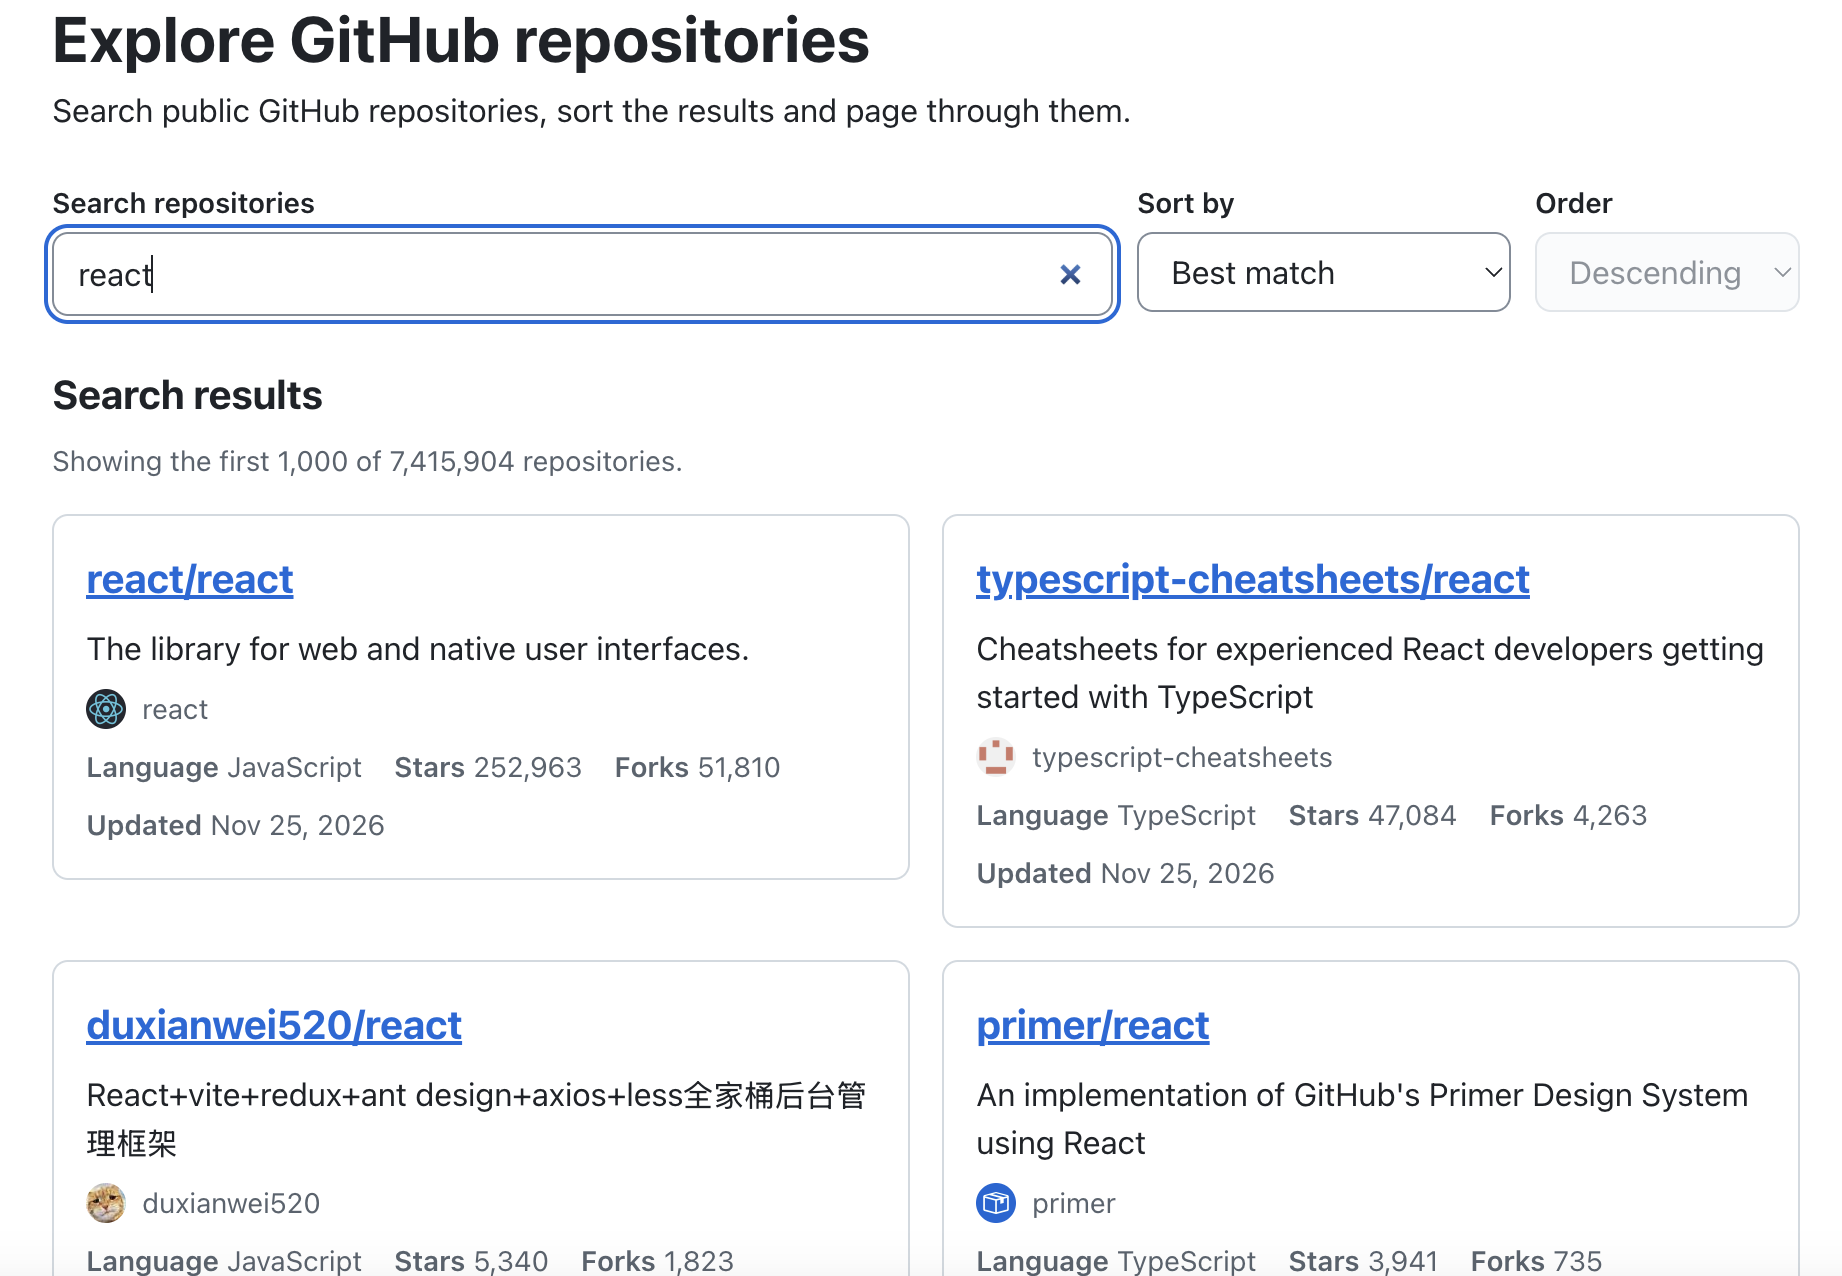
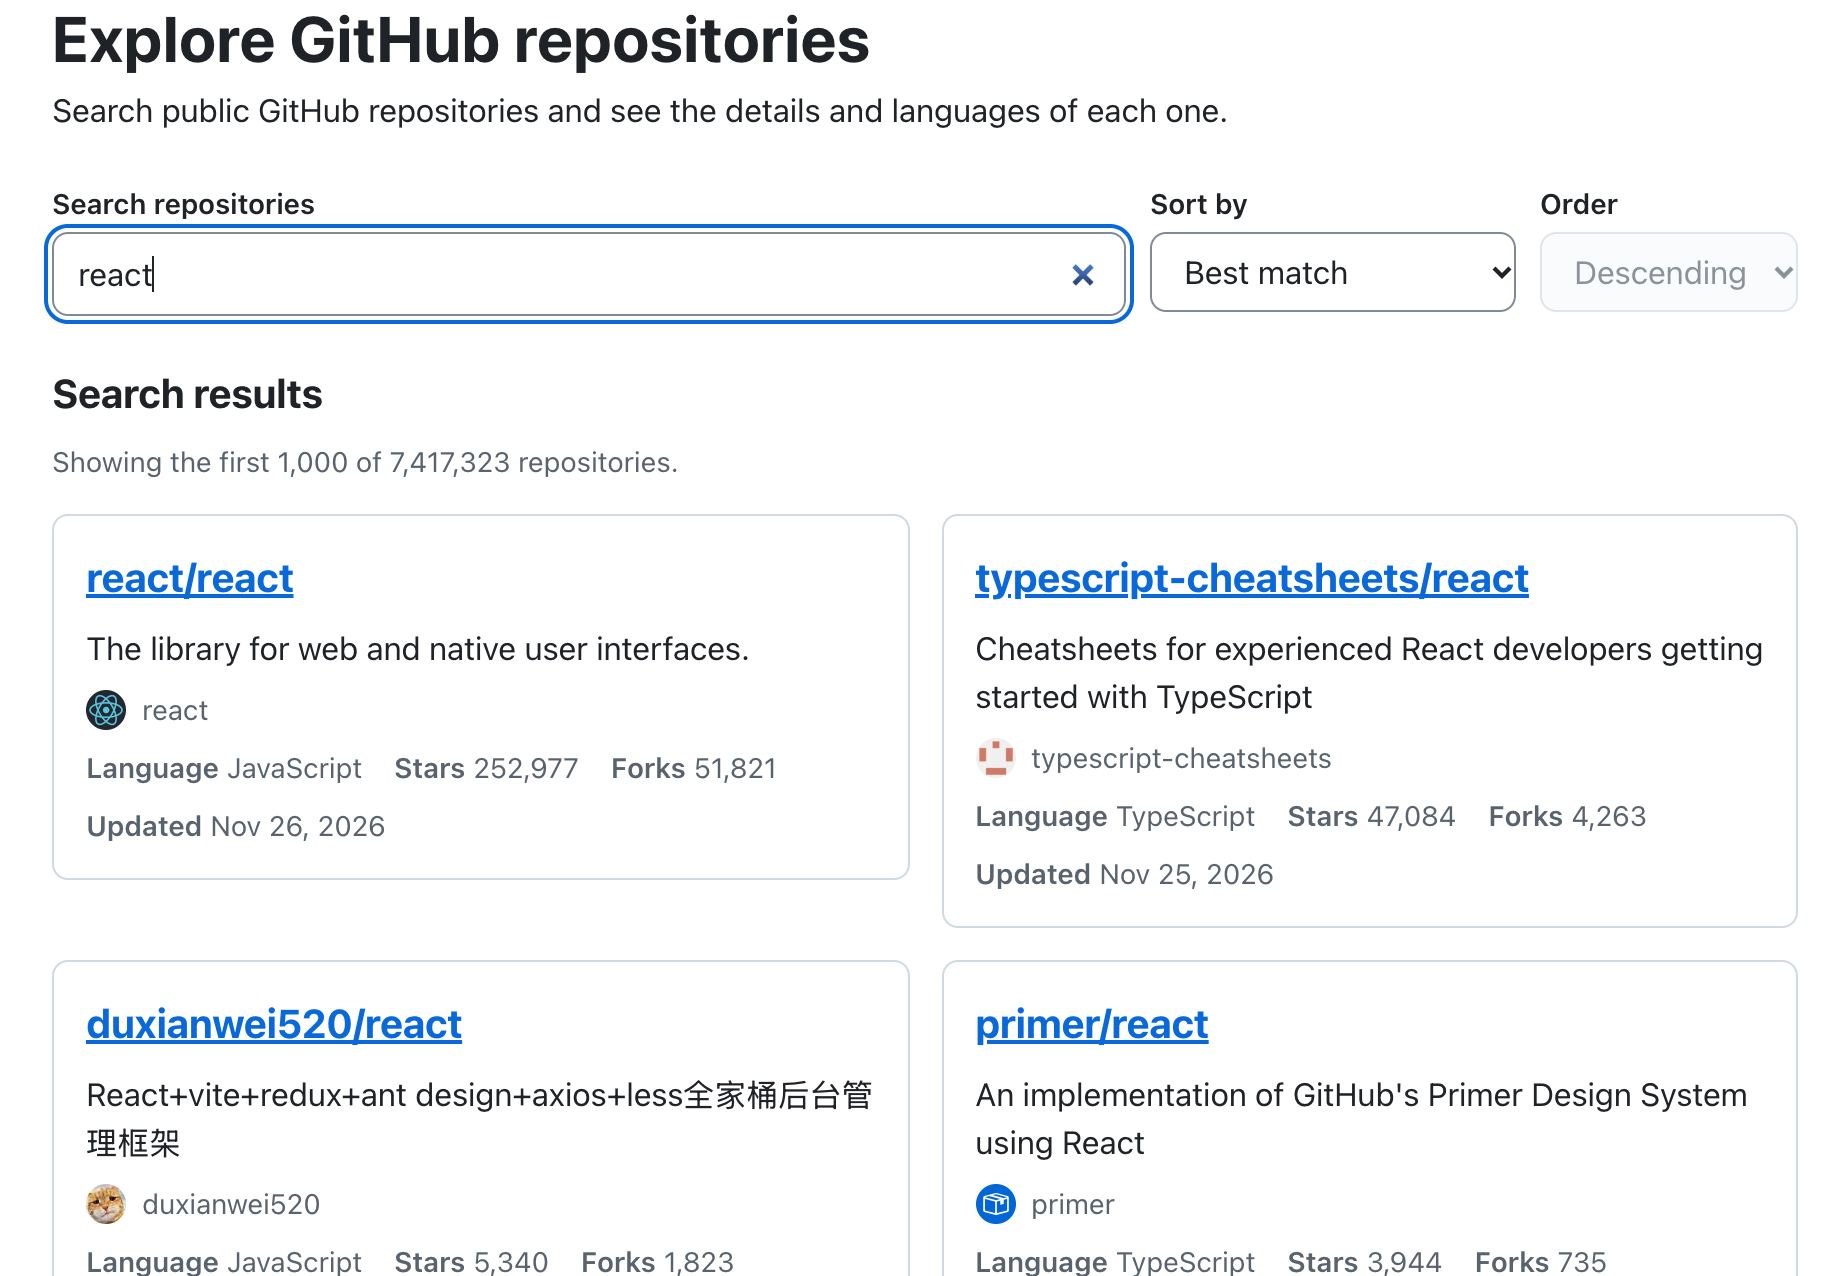
docs: update the README for the repository page
- Describe the repository page, "Back to results" and how titles, focus
  and the scroll position follow navigation.
- Add the separate rate limit for repository requests, the canonical
  address and the homepage links to the technical highlights.
- Update the project structure, known limitations and roadmap.
- Add a screenshot of the repository page and retake the search one,
  which showed the old intro.

diff --git a/README.md b/README.md
@@ -1,27 +1,34 @@
 # repo-explorer
 
-Search public GitHub repositories, sort the results and page through them.
+Search public GitHub repositories and see the details and languages of each one.
 
 **Live:** https://repo-explorer-theta.vercel.app
 
 ![Search results in repo-explorer](docs/screenshots/search.png)
+
+![Repository page of vercel/next.js in repo-explorer](docs/screenshots/repository.png)
 
 ## Features
 
 - Search public repositories by name or keyword. The request starts 500 ms after you stop typing, or at once on Enter; queries need at least 2 characters.
 - Sort by best match, or by stars, forks, help wanted issues or recent update in descending or ascending order.
 - 20 results per page, up to the 1,000 results GitHub returns for a search.
-- Each result shows the owner, description, language, stars, forks and last update date, and links to the repository on GitHub in a new tab.
+- Each result shows the owner, description, language, stars, forks and last update date, and links to the repository's page in the app.
 - Separate views for loading, no results, network and server errors, and the GitHub rate limit.
+- A repository page with the owner, description, topics, star, fork, watcher and open issue counts, license, default branch, dates, links to GitHub and the homepage, and the share of each language.
+- The repository page has its own loading, not found, error and rate limit states. A failed languages request does not take the page down.
+- "Back to results" returns to the same search.
+- Page titles, focus and the scroll position follow navigation.
 - No sign-in or token.
 
 ## Technical highlights
 
 - **The URL holds the search state** (`q`, `sort`, `order`, `page`), so a search can be shared and Back works. A route loader rewrites invalid or redundant parameters with a replace navigation, so they do not add history entries. A page past the last one is replaced with the last page.
-- **Rate limit handling.** Without a token GitHub allows 10 search requests per minute. After a rate limit response, a shared gate stops further requests until the reset time: a new search shows "Search paused" with a countdown and runs on its own afterwards. Typing is debounced and rate limit errors are not retried, so the quota is not wasted.
+- **Rate limit handling.** Without a token GitHub allows 10 search requests per minute and 60 other requests per hour; a repository page takes two. The two limits have separate gates. After a rate limit response, the gate stops further requests of its kind until the reset time: a new search or repository shows that it is paused, with a countdown, and loads on its own afterwards. Typing is debounced and rate limit errors are not retried, so the quota is not wasted.
 - **Previous results stay on screen while the next ones load**, marked with a loading line and `aria-busy`. Old empty results and pages past the last one show a skeleton instead, so "no results" does not flash before the real answer.
-- **Accessibility.** One persistent `status` region announces outcomes and one `alert` region announces errors, because a live region added together with its text is announced unreliably. Focus follows Previous, Next and Retry so keyboard users are not left at the top of the document. `eslint-plugin-jsx-a11y` is part of the ESLint setup.
-- **Tests.** 500+ tests with Vitest, React Testing Library and MSW, which mocks GitHub at the network level so the real request code runs. While writing them, each new test was checked by temporarily breaking the code it covers and seeing it fail.
+- **Accessibility.** One persistent `status` region announces outcomes and one `alert` region announces errors, because a live region added together with its text is announced unreliably. Focus follows Previous, Next and Retry so keyboard users are not left at the top of the document. After navigation it moves to the page heading, and coming back from a repository it returns to the card that was opened. The language bar is hidden from screen readers; the list under it carries the same data. `eslint-plugin-jsx-a11y` is part of the ESLint setup.
+- **Addresses and links.** The repository address is replaced with the canonical one after a rename or a different case. The homepage of a repository is free text, so only `http` and `https` links are shown.
+- **Tests.** 590+ tests with Vitest, React Testing Library and MSW, which mocks GitHub at the network level so the real request code runs. While writing them, each new test was checked by temporarily breaking the code it covers and seeing it fail.
 - **Checks before code lands.** Strict TypeScript; a pre-commit hook runs ESLint, Stylelint, Prettier and the type check on staged changes; GitHub Actions runs lint, format check, type check, tests and the build on every pull request.
 
 ## Tech stack
@@ -59,13 +66,17 @@ npm run dev
 
 ```
 src/
-  api/               GitHub client, typed errors, query client
-  app/               providers, router and routes
-  components/        shared layout
-  features/search/   search state, hooks and components
-  pages/             route components
-  styles/            tokens, reset and mixins
-  test/              test setup, fixtures and render helpers
+  api/                     GitHub client, requests, typed errors, query client
+  app/                     providers, router, routes and app-level tests
+  components/ErrorNotice/  error and rate limit notices
+  components/Layout/       header, focus and scroll after navigation
+  features/rateLimit/      gates for the search and core limits
+  features/repository/     repository page hooks and components
+  features/search/         search state, hooks, components, return to results
+  lib/                     formatters, avatars, error messages, shared hooks
+  pages/                   route components
+  styles/                  tokens, reset and mixins
+  test/                    test setup, fixtures and render helpers
 ```
 
 ## Known limitations
@@ -73,15 +84,22 @@ src/
 - An in-app navigation to a non-canonical URL replaces the current history entry. The app only builds canonical links.
 - Changing only the sort or page does not cancel text still waiting for the debounce.
 - A cached result with the same announcement text is not announced again.
-- Focus is handled for the results heading only; focus on a card or pagination link that disappears falls to the page body.
+- Within the search, focus is moved only by Previous, Next and Retry; a focused card or link that disappears drops focus to the page body.
+- The scroll position is not restored when the results are no longer cached.
+- "Back to results" creates a new history entry, so browser Back after it returns to the repository.
+- Returning focus to the opened card does not survive a reload.
+- Without a token GitHub allows about 30 repository pages an hour.
 - Avatars are requested with an `s` size parameter that GitHub does not document. If it stops working, the full image is shown at the same size.
 
 ## Roadmap
 
-- Repository page
+- Theme: light, dark and system
 - Filters
 - Favorites
-- Theme
+- The repository's README on its page, sanitized with DOMPurify
+- Accessibility and test pass
+- Performance and Lighthouse
+- Own favicon instead of the Vite one
 
 ## Author
 
